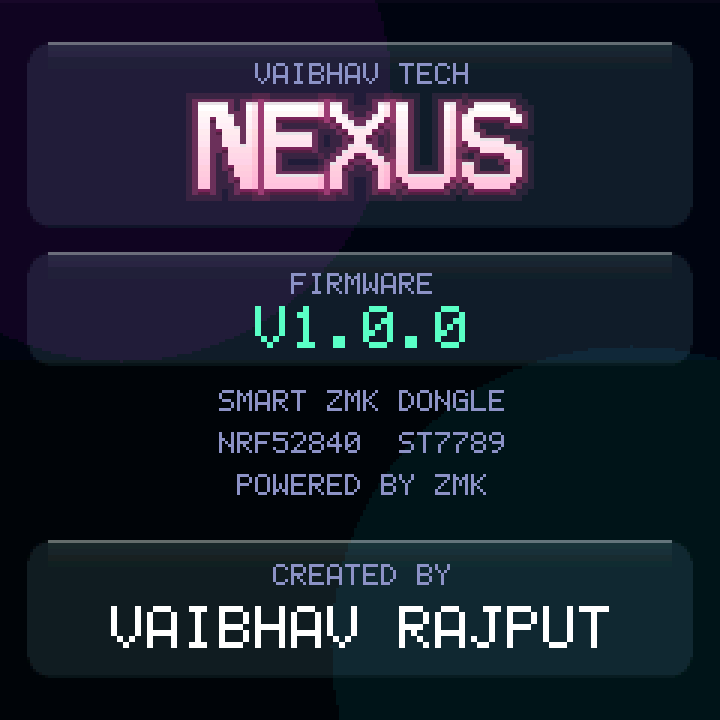
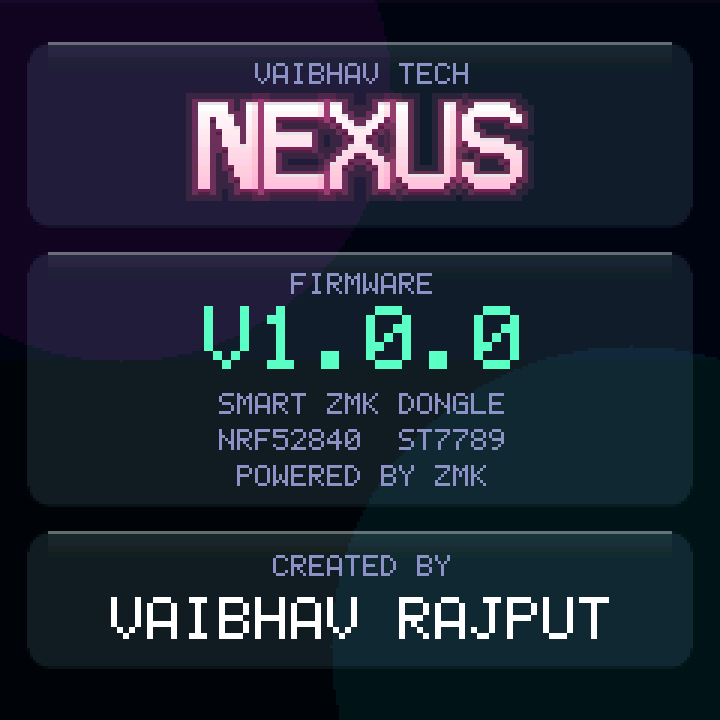
fix(N-12): About is three panes, and the version is its headline
Two things read wrong on About. The three hardware lines - subtitle, chip and
panel, POWERED BY ZMK - floated between the cards, the only unpanelled text on
the screen, so they read as leftovers rather than as information. And the
firmware version, the thing people open this screen to read, was the same size
as the creator's name; at fourteen white characters against six mint ones the
name outweighed it.

The hardware lines move into the firmware pane, under the version, which is
where they belong - what it is, and what it runs on. Three panes, nothing
loose. The version goes to NEXUS_TXT_VALUE, 21px against the name's 14, and
stays in the accent. The creator keeps its own pane at body size: the original
reason for that card still stands, whoever built the thing should not be the
smallest text on its About screen - they are just not the largest either.

Everything fits with a 17px foot, and the brand pane is untouched, so the
wordmark checks that already guard it still hold.

test_home_layout.py now checks that every line of About sits inside a pane,
that no two panes overlap, and that the version is VALUE size. Only about.png
changed.

Changed region(s): [[0.0306, 0.4278, 0.9778, 0.7028], [0.0306, 0.7333, 0.9472, 0.9472], [0.7944, 0.825, 0.8556, 0.8556]]

diff --git a/src/ui/menus.c b/src/ui/menus.c
@@ -690,13 +690,22 @@ static void about_draw(void)
 	 */
 	nexus_draw_wordmark(GFX_W / 2, 31, NEXUS_PRODUCT, 2);
 
-	nexus_draw_card(NEXUS_PAD, 84, NEXUS_CONTENT_W, 38);
+	/*
+	 * The version, and what it runs on, in one pane. The three detail
+	 * lines used to float between the cards - the only unpanelled text on
+	 * the screen, which read as leftovers rather than as information.
+	 *
+	 * The version is VALUE size: it is the thing people open this screen
+	 * to read, and it was the same size as the creator's name, which at
+	 * fourteen white characters against six mint ones outweighed it.
+	 */
+	nexus_draw_card(NEXUS_PAD, 84, NEXUS_CONTENT_W, 85);
 	nexus_draw_caption_c(GFX_W / 2, 91, "FIRMWARE");
-	gfx_text_c(GFX_W / 2, 102, "V" NEXUS_VERSION_STR, NEXUS_TXT_BODY,
+	gfx_text_c(GFX_W / 2, 102, "V" NEXUS_VERSION_STR, NEXUS_TXT_VALUE,
 		   t->accent, GFX_OPAQUE);
 
 	for (size_t i = 0; i < ARRAY_SIZE(lines); i++) {
-		nexus_draw_caption_c(GFX_W / 2, 130 + (int)i * 14, lines[i]);
+		nexus_draw_caption_c(GFX_W / 2, 131 + (int)i * 12, lines[i]);
 	}
 
 	/*
@@ -705,15 +714,15 @@ static void about_draw(void)
 	 * text on its About screen. Empty CONFIG_NEXUS_AUTHOR hides it.
 	 */
 	if (sizeof(NEXUS_AUTHOR) > 1) {
-		nexus_draw_card(NEXUS_PAD, 180, NEXUS_CONTENT_W, 46);
-		nexus_draw_caption_c(GFX_W / 2, 188, "CREATED BY");
+		nexus_draw_card(NEXUS_PAD, 177, NEXUS_CONTENT_W, 46);
+		nexus_draw_caption_c(GFX_W / 2, 185, "CREATED BY");
 
 		int scale = gfx_text_w(NEXUS_AUTHOR, NEXUS_TXT_BODY) <=
 					    NEXUS_CONTENT_W - 16
 				    ? NEXUS_TXT_BODY
 				    : NEXUS_TXT_CAPTION;
 
-		gfx_text_c(GFX_W / 2, 202, NEXUS_AUTHOR, scale, t->value,
+		gfx_text_c(GFX_W / 2, 199, NEXUS_AUTHOR, scale, t->value,
 			   GFX_OPAQUE);
 	}
 }

diff --git a/tests/ui/test_home_layout.py b/tests/ui/test_home_layout.py
@@ -310,6 +310,30 @@ def main():
         ok(face_w('NEXUS', asz) + 2 * GLOW_CELLS * asz
            <= C['NEXUS_CONTENT_W'], 'About wordmark fits the card width')
 
+    # Every block in a pane, or none - three detail lines used to float
+    # between the cards, the only unpanelled text on the screen.
+    about = menus.split('static void about_draw')[1].split('\n}\n')[0]
+    cards = [(int(y), int(h)) for y, h in re.findall(
+        r'nexus_draw_card\(NEXUS_PAD, (\d+), NEXUS_CONTENT_W, (\d+)\)',
+        about)]
+    texts = [int(y) for y in re.findall(
+        r'(?:caption_c|gfx_text_c)\(GFX_W / 2, (\d+)', about)]
+    texts += [131 + i * 12 for i in range(3)]      # the detail lines
+    loose = [y for y in texts
+             if not any(cy <= y and y + 7 <= cy + ch for cy, ch in cards)]
+    ok(not loose, 'every line of About sits inside a pane%s'
+       % ('' if not loose else ' - loose at %s' % loose))
+    for (a, ah), (b, _) in zip(cards, cards[1:]):
+        ok(a + ah <= b, 'pane at %d ends (%d) before the next starts (%d)'
+           % (a, a + ah, b))
+
+    # The version is what people open this screen to read, and it was the
+    # same size as the creator's name - which outweighed it.
+    ok('NEXUS_VERSION_STR, NEXUS_TXT_VALUE' in about,
+       'the version is VALUE size, the headline of the screen')
+    ok('NEXUS_AUTHOR, scale' in about and 'NEXUS_TXT_BODY' in about,
+       'and the creator stays below it, at body size at most')
+
     print('\nProfile tile: the state is in the shape, not the colour')
     # A tick read as "task complete", and its success green was the one
     # colour that did not belong in half the palettes.

diff --git a/scripts/render_ui.py b/scripts/render_ui.py
@@ -652,17 +652,17 @@ def about(cv, t):
     u.caption_c(W // 2, 21, 'VAIBHAV TECH')
     u.wordmark(W // 2, 31, 'NEXUS', 2)
 
-    u.card(PAD, 84, CONTENT_W, 38)
+    u.card(PAD, 84, CONTENT_W, 85)
     u.caption_c(W // 2, 91, 'FIRMWARE')
-    cv.text_c(W // 2, 102, 'V1.0.0', BODY, t['accent'])
+    cv.text_c(W // 2, 102, 'V1.0.0', VALUE, t['accent'])
 
     for i, line in enumerate(('SMART ZMK DONGLE', 'NRF52840  ST7789',
                               'POWERED BY ZMK')):
-        u.caption_c(W // 2, 130 + i * 14, line)
+        u.caption_c(W // 2, 131 + i * 12, line)
 
-    u.card(PAD, 180, CONTENT_W, 46)
-    u.caption_c(W // 2, 188, 'CREATED BY')
-    cv.text_c(W // 2, 202, 'VAIBHAV RAJPUT', BODY, t['value'])
+    u.card(PAD, 177, CONTENT_W, 46)
+    u.caption_c(W // 2, 185, 'CREATED BY')
+    cv.text_c(W // 2, 199, 'VAIBHAV RAJPUT', BODY, t['value'])
 
 
 # ------------------------------------------------------------ game center

diff --git a/docs/ui.md b/docs/ui.md
@@ -298,9 +298,15 @@ entirely, text included. See [splash.md](splash.md).
 
 <br clear="right">
 
-Brand, wordmark, firmware version, the hardware it runs on, and the creator
-credit. `CONFIG_NEXUS_BRAND`, `_PRODUCT`, `_SUBTITLE` and `_AUTHOR` set the
-strings; an empty one hides its line.
+Three panes: brand and wordmark; the firmware version with the hardware it
+runs on; and the creator credit. `CONFIG_NEXUS_BRAND`, `_PRODUCT`, `_SUBTITLE`
+and `_AUTHOR` set the strings; an empty one hides its line.
+
+The version is the largest text below the wordmark, because it is what people
+open this screen to read. It used to be the same size as the creator's name,
+which at fourteen white characters against six mint ones outweighed it -- and
+the three hardware lines floated between the panes, the only unpanelled text on
+the screen.
 
 ## Regenerating these images
 
